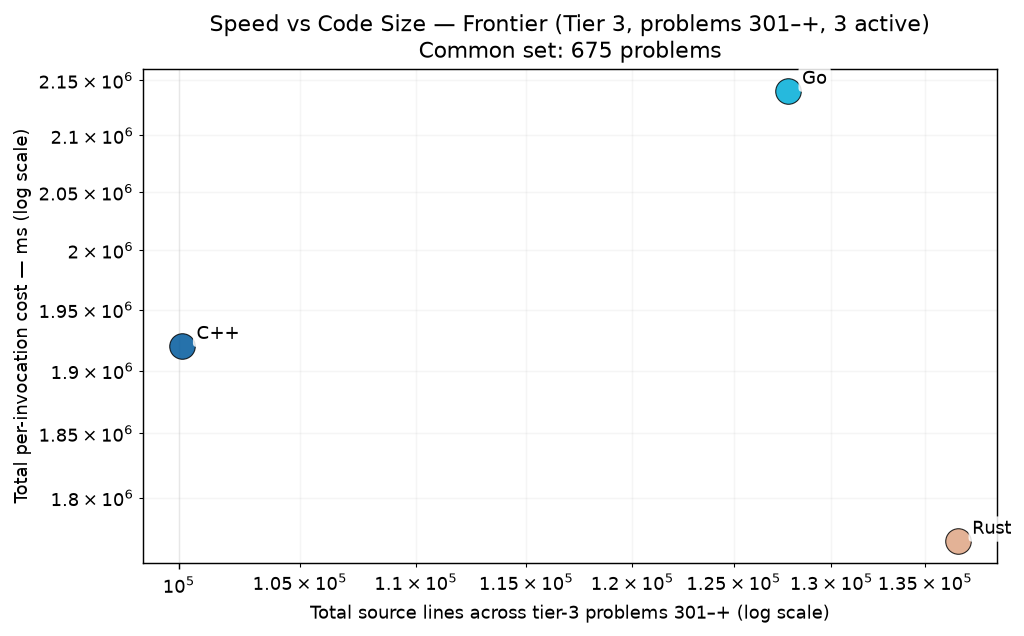
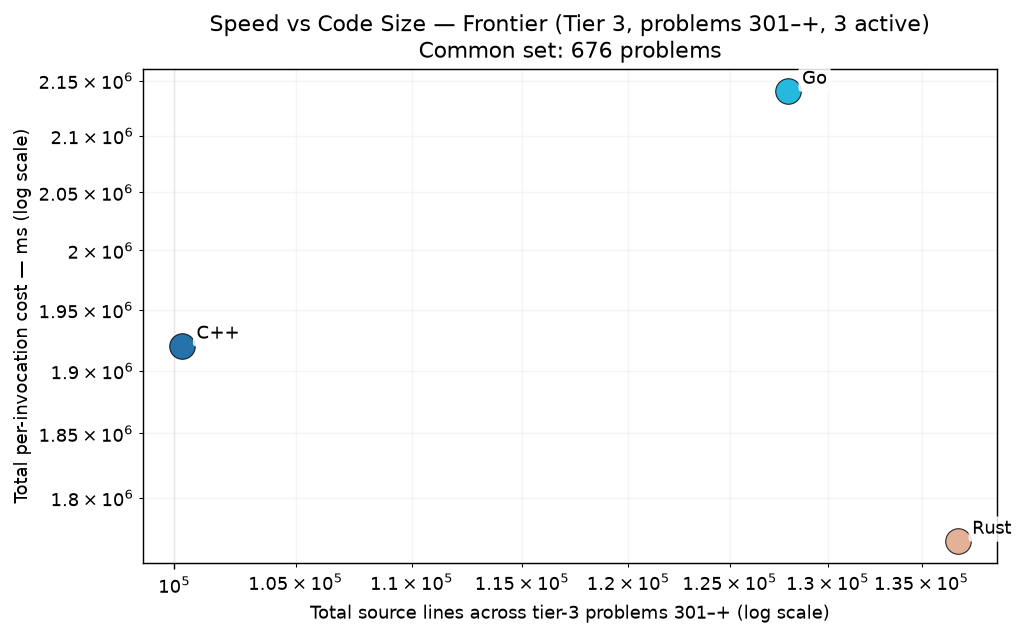
cpp p0895

diff --git a/RESULTS.md b/RESULTS.md
@@ -1,6 +1,6 @@
 # Project Euler — Cross-Language Benchmarks
 
-> **Scope: 4521 in-scope cells across 1007 problems × tiered languages — 4455 measured (98.5% coverage).**
+> **Scope: 4521 in-scope cells across 1007 problems × tiered languages — 4456 measured (98.6% coverage).**
 > The cross-language ranking below is computed over the **200-problem common set** (problems in 1-200 where every language has a passing measurement) — the apples-to-apples Foundation comparison surface.  Per-tier rankings and coverage detail appear further below.
 > Growing carefully — each new problem and language is audited for state-leak
 > safety, verified for answer correctness, and added only when it cleanly fits the
@@ -70,15 +70,15 @@ Same scatter as the Foundation chart, restricted to the tier-2 active languages 
 
 The frontier verification trio — C++, Go, Rust — on problems above 300. 3-way cross-language agreement is the verification protocol (strictly stronger than 2-way; see JOURNEY.md "Tier Reframing" episode for the p254 lesson that motivated it). Python and Zig are explicitly out of this tier — python's wall cost makes it impractical at level 5+, and zig's role caps at Tier 2.
 
-### Per-Invocation Cost (Common Set, 675 of ≤707 problems in scope)
+### Per-Invocation Cost (Common Set, 676 of ≤707 problems in scope)
 
 ![Per-Invocation Cost — Tier 3](charts/per_iter_total_tier3.png)
 
-| Rank | Language | Geomean (675-problem common set) | Total (sum) | Lines of code | vs Fastest |
+| Rank | Language | Geomean (676-problem common set) | Total (sum) | Lines of code | vs Fastest |
 |------|----------|--------------------:|------------:|--------------:|-----------:|
-| 1 | **Rust** | 75.56 ms | 1767.15 s | 136,771 | 1.00× |
-| 2 | **C++** | 78.01 ms | 1919.89 s | 100,135 | 1.03× |
-| 3 | **Go** | 88.27 ms | 2140.07 s | 127,733 | 1.17× |
+| 1 | **Rust** | 75.50 ms | 1767.20 s | 136,973 | 1.00× |
+| 2 | **C++** | 78.20 ms | 1920.29 s | 100,317 | 1.04× |
+| 3 | **Go** | 88.43 ms | 2140.38 s | 127,931 | 1.17× |
 
 ### Speed vs Code Size
 
@@ -264,7 +264,7 @@ table never silently mixes versions (METHODOLOGY.md §4).  Current state of the
 |----------|-----------|------:|---------------|
 | **ARM64** | `Apple clang version 21.0.0 (clang-2100.1.1.101)` | 200 | 2026-07-30 |
 | **C** | `Apple clang version 21.0.0 (clang-2100.1.1.101)` | 200 | 2026-07-30 |
-| **C++** | `Apple clang version 21.0.0 (clang-2100.1.1.101)` | 975 | 2026-09-06 |
+| **C++** | `Apple clang version 21.0.0 (clang-2100.1.1.101)` | 976 | 2026-09-06 |
 | **C#** | `10.0.101` | 200 | 2026-07-30 |
 | **Go** | `go version go1.26.5 darwin/arm64` | 978 | 2026-09-06 |
 | **Java** | `openjdk version "21.0.2" 2024-01-16 LTS` | 200 | 2026-07-30 |

diff --git a/per_problem/per_problem_0801-0900.md b/per_problem/per_problem_0801-0900.md
@@ -102,7 +102,7 @@ in tier-1 display order (native → managed → interpreted).
 | **p0892** | 61.47 ms | 104.49 ms | 81.65 ms |
 | **p0893** | 9.18 s | 11.41 s | 11.46 s |
 | **p0894** | 4.2 µs~ | 10.15 ms | 2.35 s |
-| **p0895** | — | 44.23 ms | 306.48 ms |
+| **p0895** | 397.83 ms | 44.23 ms | 306.48 ms |
 | **p0896** | 115.67 ms | 1.43 s | 43.67 ms |
 | **p0897** | 1.30 s | 1.31 s | 140.95 ms |
 | **p0898** | 114.13 ms | 434.07 ms | 5.94 s |
